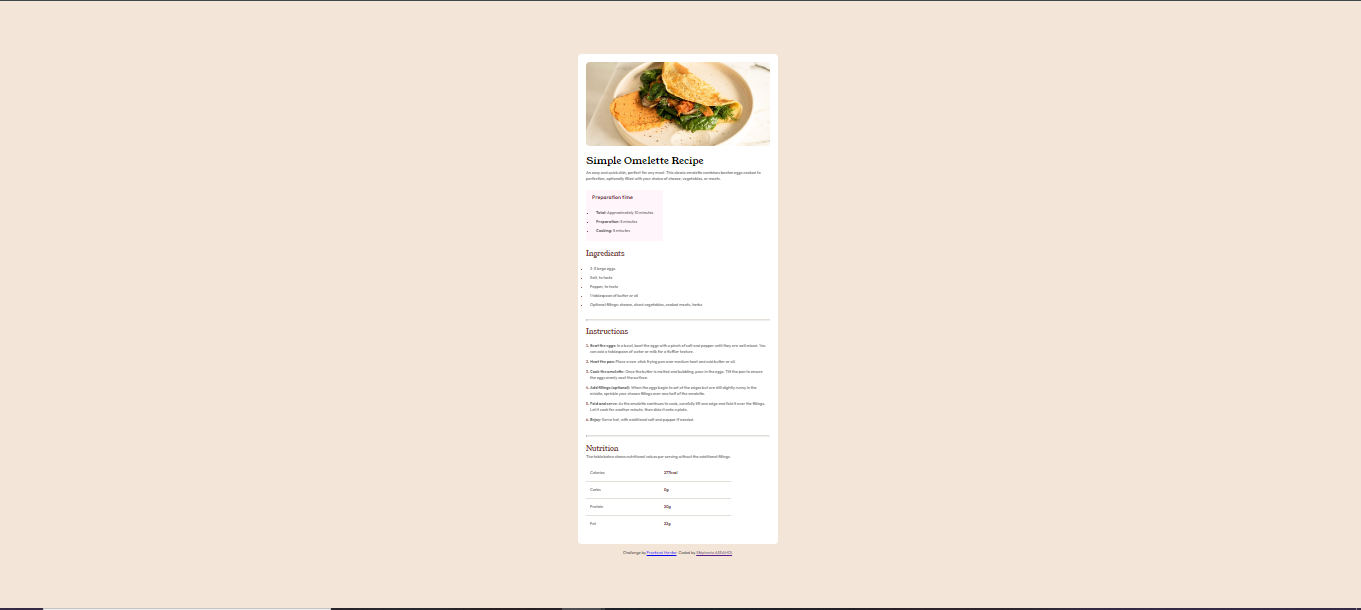
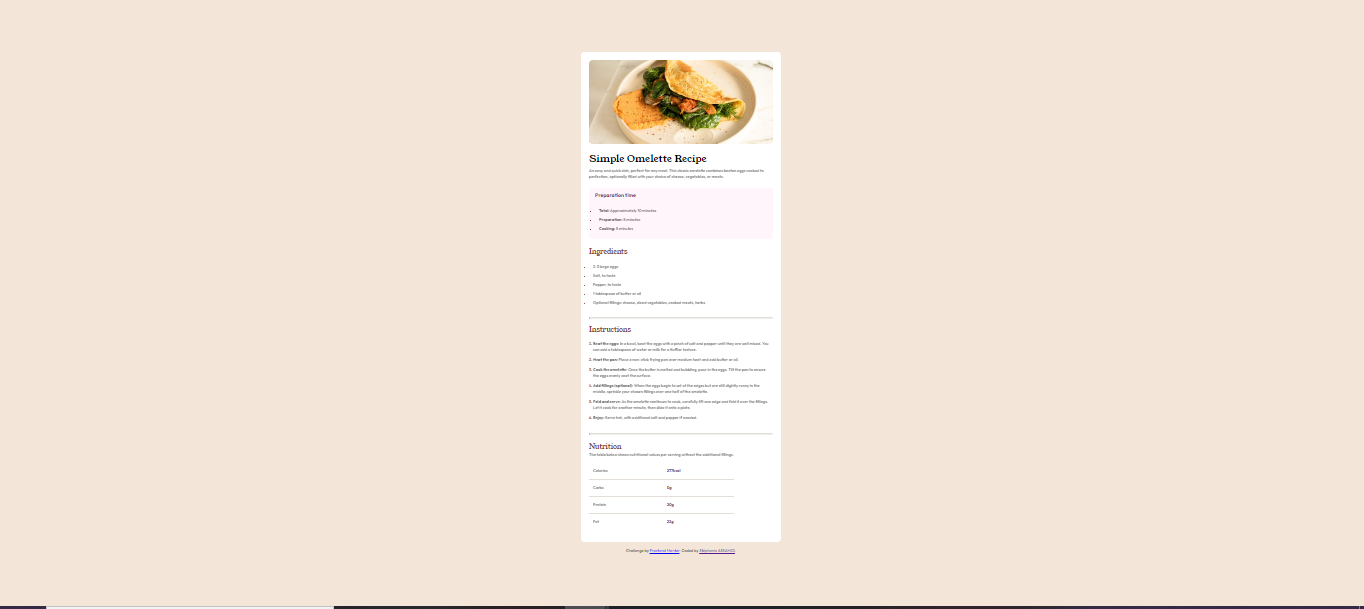
first commit

Changed region(s): [[0.432, 0.0624, 0.5863, 0.7488], [0.432, 0.78, 0.5246, 0.936], [0.0309, 0.9672, 0.2469, 0.9984]]

diff --git a/style.css b/style.css
@@ -117,6 +117,8 @@ main {
   /* border: 2px solid orangered; */
   background-color: var(--Rose_White);
   padding: 1rem 1.5rem;
+  width: 100%;
+    border-radius: 10px;
 }
 
 .prep_title {
